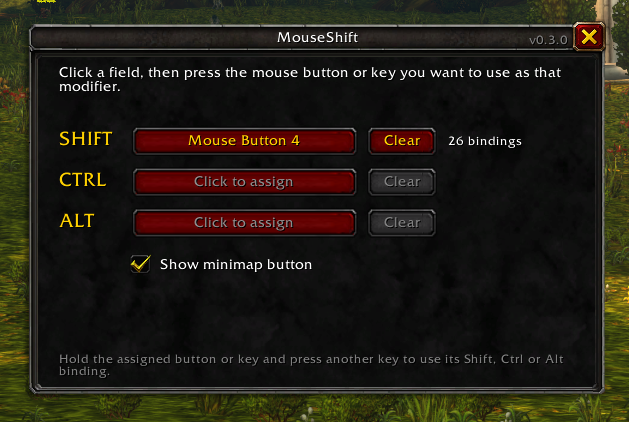
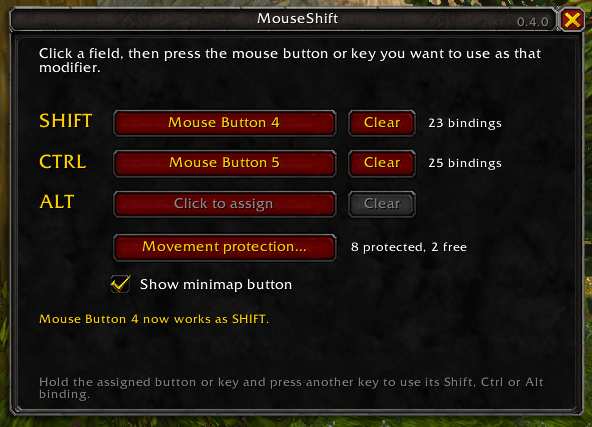
New screenshots for 0.4 and the Movement protection section

diff --git a/README.md b/README.md
@@ -75,6 +75,18 @@ The left and right mouse buttons cannot be used, because the game needs them for
 
 Hold two assigned buttons together to reach your `CTRL-SHIFT`, `ALT-SHIFT` or `ALT-CTRL` bindings, or all three for `ALT-CTRL-SHIFT`.
 
+### Movement protection
+
+Keys that move your character are protected by default: they always move you, so your character never keeps walking by accident. Click **Movement protection...** to choose the keys yourself. Untick a key, and the assigned button reaches its Shift, Ctrl and Alt keybinds, while the key alone still moves you.
+
+![The Movement protection window next to the settings window](docs/images/movement-protection.png)
+
+Point at a field, a button or a number for a tooltip. The number of bindings shows which keys a layer uses and which it skips.
+
+| Which keys a layer uses and skips | What freeing a key changes |
+| --- | --- |
+| ![Tooltip with the keys of the Shift layer](docs/images/layer-tooltip.png) | ![Tooltip of a movement key](docs/images/key-tooltip.png) |
+
 ### Commands
 
 | Command | What it does |

diff --git a/docs/how-it-works.md b/docs/how-it-works.md
@@ -58,6 +58,10 @@ The **Movement protection** button in the settings window opens a list of the ke
 
 By default, keys that walk, strafe or turn are protected and the jump key is free. **Defaults** brings that back. Pointing at a key shows which keybinds you gain by freeing it. Steering with a mouse button is always protected and not listed.
 
+![The Movement protection window next to the settings window](images/movement-protection.png)
+
+![Tooltip of a free movement key](images/key-tooltip.png)
+
 ## Unit frames
 
 Unit frames, the player, party, raid and target frames from the game or from addons, take every mouse button pressed over them, including mouse buttons 4 and 5. A modifier on such a button would then never arrive while the cursor is over a frame, which breaks mouseover casting on frames.

diff --git a/docs/listing/curseforge-wago.md b/docs/listing/curseforge-wago.md
@@ -39,6 +39,14 @@ Hold the button under your thumb, press `2`, and the game does whatever you have
 
 &nbsp;
 
+### Movement protection
+
+Keys that move your character stay protected by default, so you never keep walking by accident. Untick a key in **Movement protection** and your mouse button reaches its Shift keybind too, for example Shift-Q for your pet attack while Q still strafes.
+
+![The Movement protection window](https://raw.githubusercontent.com/mikebronka/MouseShift/main/docs/images/movement-protection.png)
+
+&nbsp;
+
 ### MMO mice (Razer Naga, Logitech G600, Corsair Scimitar and similar)
 
 The side buttons of these mice usually send keyboard keys (`1`, `2`, `3`… or the numpad), not mouse buttons. MouseShift handles them like any other key:

diff --git a/docs/troubleshooting.md b/docs/troubleshooting.md
@@ -24,6 +24,8 @@ Fixed in version 0.3.2. It happened when a movement key also had a Shift, Ctrl o
 
 The key is a protected movement key: it always moves your character, and its Shift, Ctrl and Alt keybinds work with the real modifier key. With the game's default keys these are `W`, `A`, `S`, `D`, `Q`, `E` and the arrow keys. Point at the number of bindings next to a field to see which keys a layer skips.
 
+![Tooltip with the keys of the Shift layer and the skipped key A](images/layer-tooltip.png)
+
 To use such a keybind with MouseShift, open **Movement protection** in the settings window and untick the key. See [How it works](how-it-works.md#movement-protection) for what that changes.
 
 ## Shift-Space or Ctrl-Space stopped working in 0.3.2
